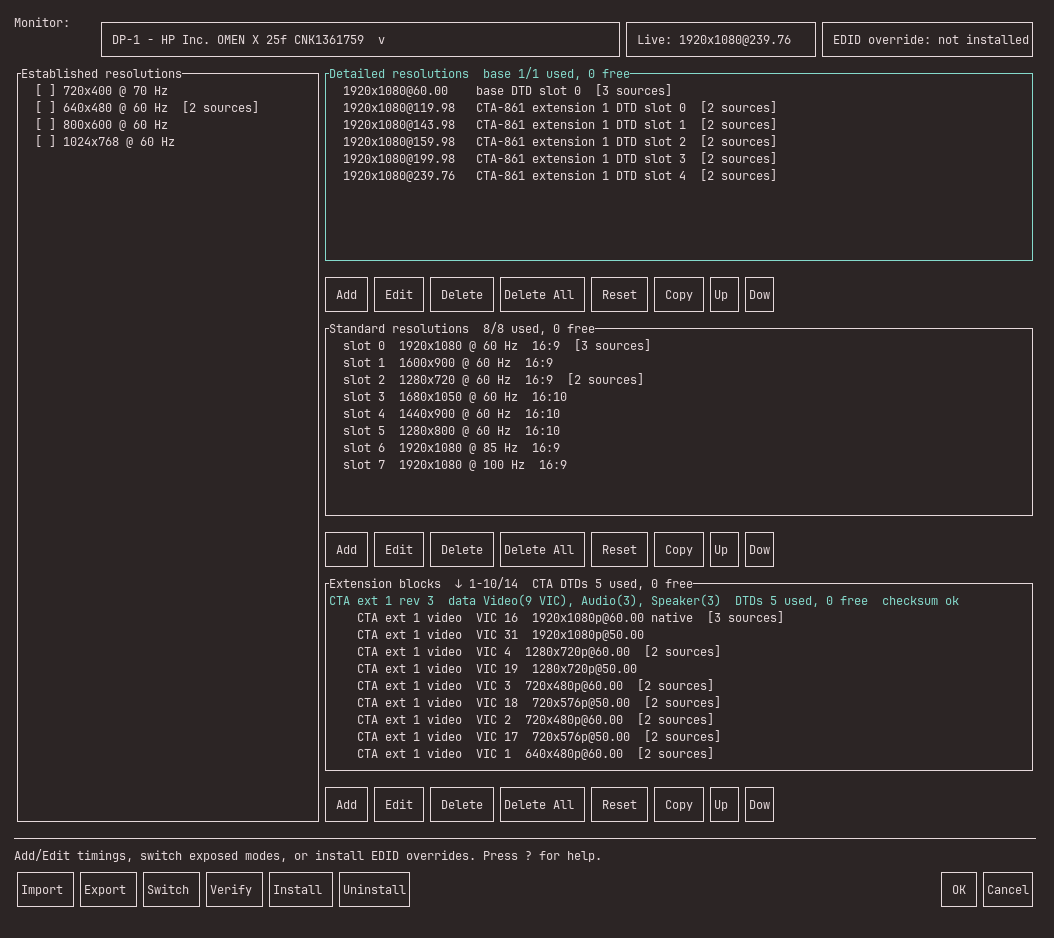
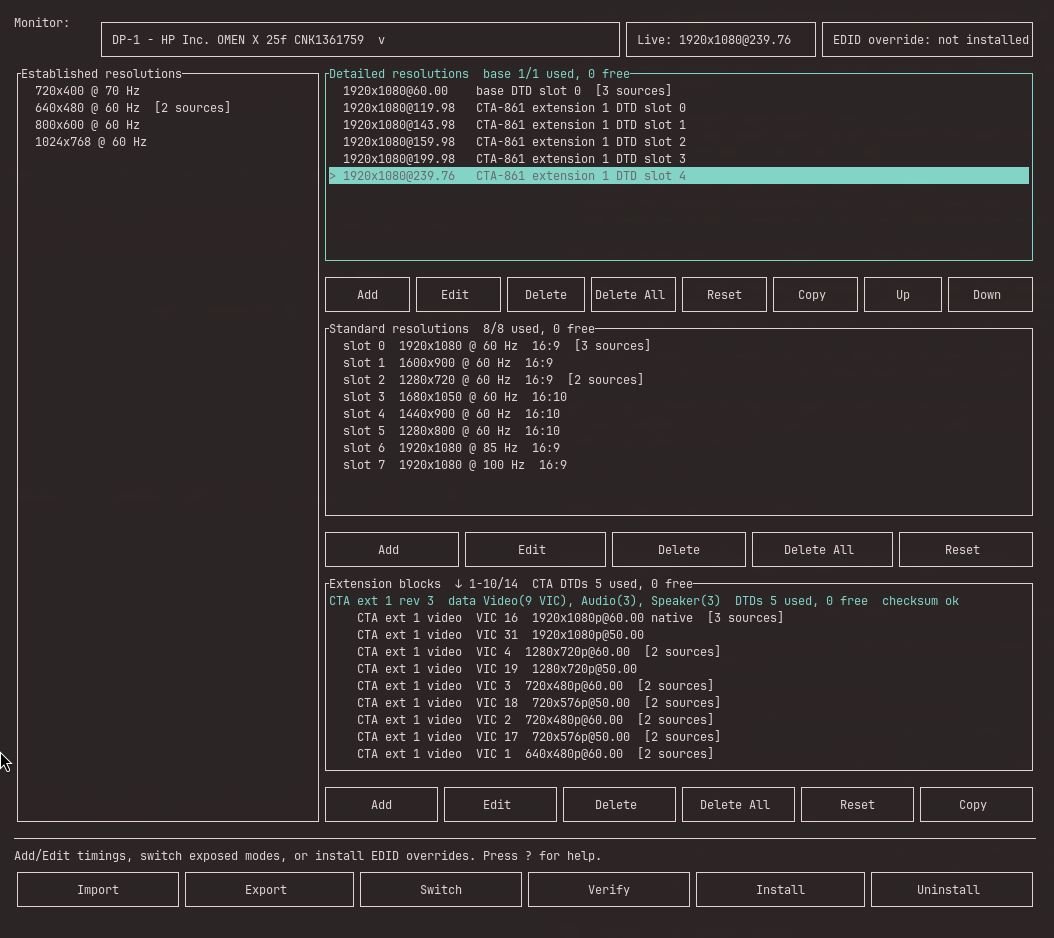
Release drmcru 0.1.1

diff --git a/README.md b/README.md
@@ -27,13 +27,13 @@ Install/Update/Uninstall is currently limited to Limine systems that rebuild wit
 ## Install
 
 Download the portable x86-64 binary from the
-[latest release](https://github.com/ssupt/drmcru/releases/tag/v0.1.0):
+[latest release](https://github.com/ssupt/drmcru/releases/tag/v0.1.1):
 
 ```sh
-curl -LO https://github.com/ssupt/drmcru/releases/download/v0.1.0/drmcru-0.1.0-x86_64-unknown-linux-musl
-chmod +x drmcru-0.1.0-x86_64-unknown-linux-musl
-./drmcru-0.1.0-x86_64-unknown-linux-musl doctor
-./drmcru-0.1.0-x86_64-unknown-linux-musl
+curl -LO https://github.com/ssupt/drmcru/releases/download/v0.1.1/drmcru-0.1.1-x86_64-unknown-linux-musl
+chmod +x drmcru-0.1.1-x86_64-unknown-linux-musl
+./drmcru-0.1.1-x86_64-unknown-linux-musl doctor
+./drmcru-0.1.1-x86_64-unknown-linux-musl
 ```
 
 The TUI and manual Export work on Linux systems that expose connectors through
